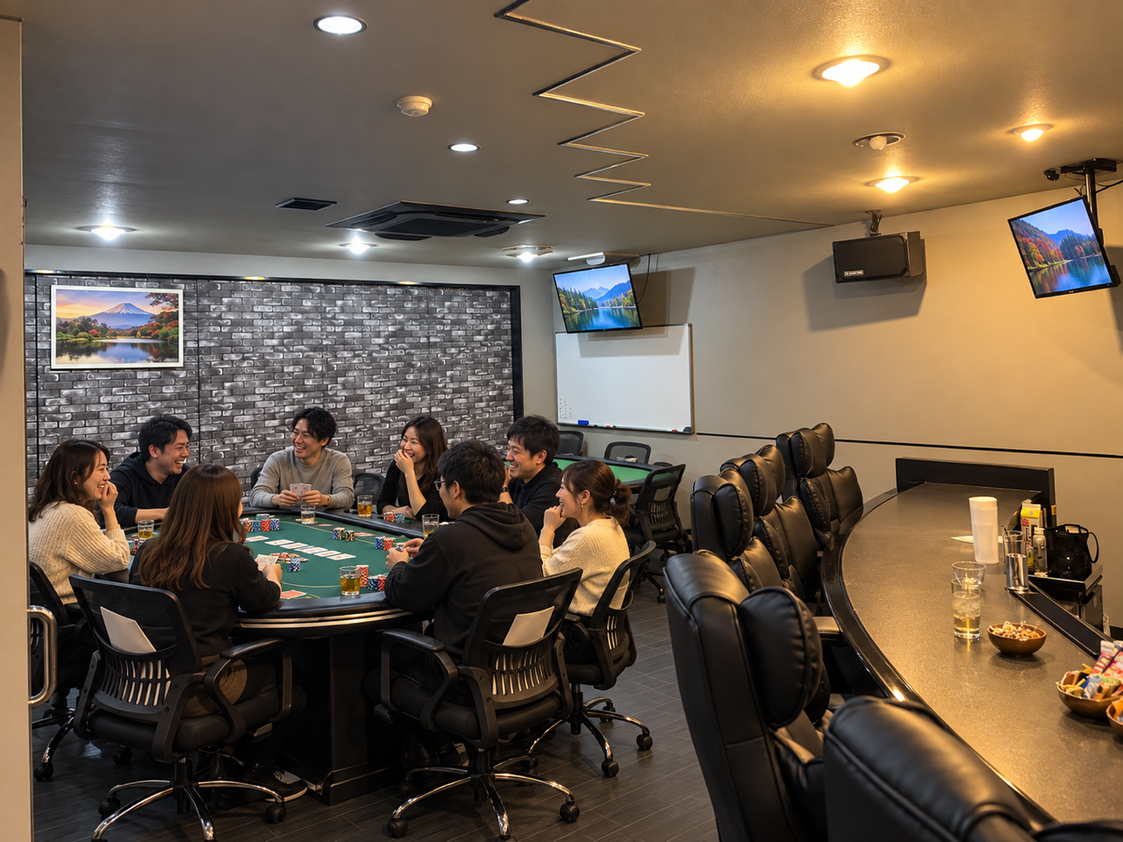
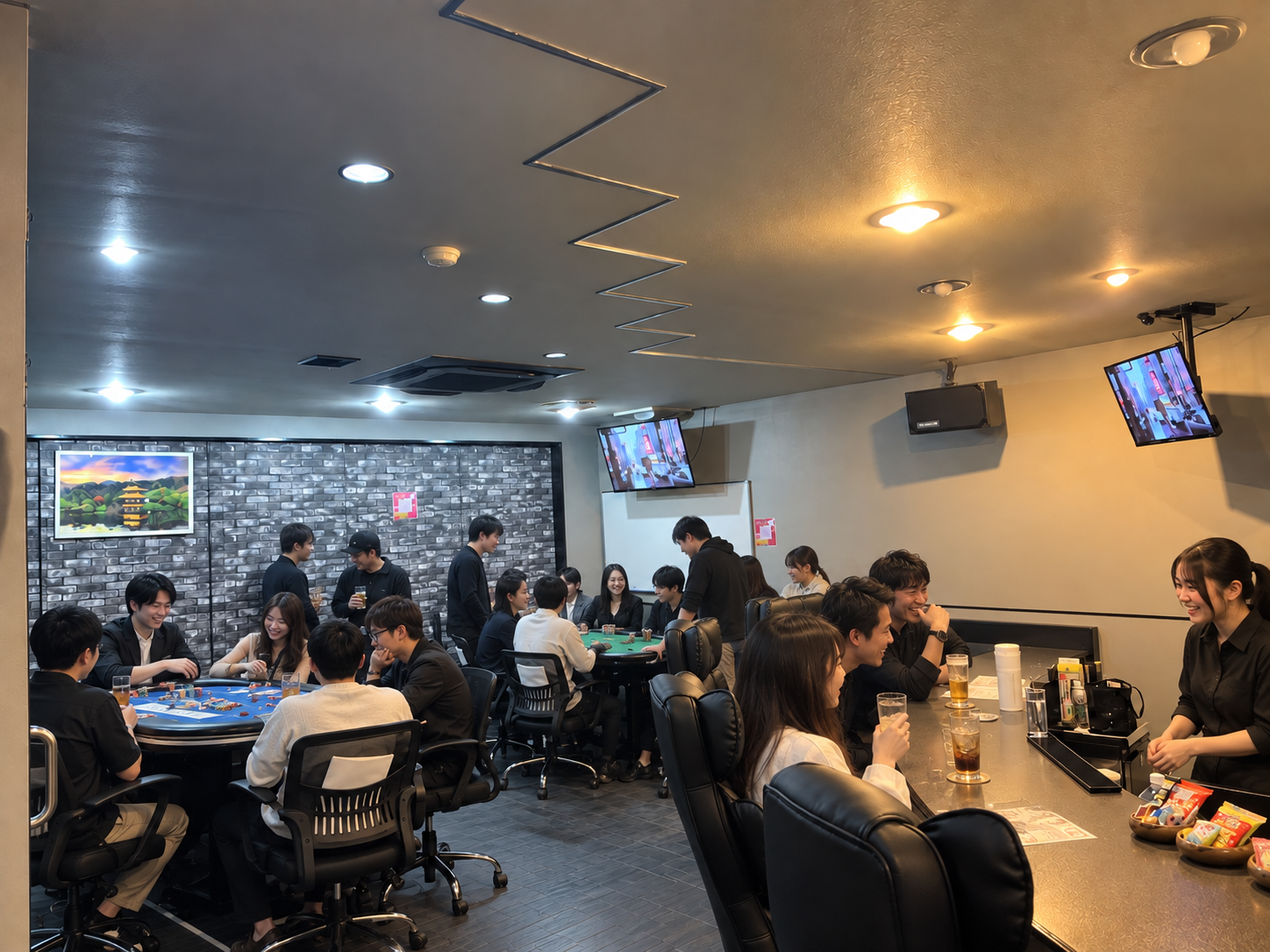
ACE preview: ポーカーテーブル賑わいシーン画像を新しい生成画像に差し替え

diff --git a/ace-preview/access.html b/ace-preview/access.html
@@ -2,7 +2,7 @@
 <html lang="ja"><head><meta charset="UTF-8"><meta name="viewport" content="width=device-width, initial-scale=1"><meta name="theme-color" content="#101313"><meta name="description" content="福岡県大牟田市のアミューズメントポーカー＆バー ACE。初心者講習は無料。ポーカーとお酒、会話を楽しむ大人の遊び場。"><title>店舗情報・アクセス | ACE POKER & BAR</title><link rel="icon" href="assets/ace-sign-restored.png"><link rel="stylesheet" href="style.css"><link rel="stylesheet" href="home-v2.css"><script src="script.js" defer></script></head>
 <body class="site-v2 access-page" id="top"><a class="skip" href="#main">本文へ移動</a>
 <header class="header"><a class="brand" href="index.html" aria-label="ACE ホーム"><img src="assets/ace-sign-restored.png" alt="ACE POKER & BAR" width="132" height="96"></a><nav class="nav" id="navigation" aria-label="メインメニュー"><a href="about.html">ACEについて</a><a href="beginner.html">はじめての方へ</a><a href="system.html">料金・システム</a><a href="access.html" aria-current="page">店舗情報</a><a href="blog.html">ブログ</a><a href="recruit.html">採用情報</a></nav><a class="header-cta" href="beginner.html"><span class="cta-label">はじめの一歩を、ACEで。</span><b>初心者講習 無料</b><span aria-hidden="true">↗</span></a><button class="menu-toggle" aria-controls="navigation" aria-expanded="false" aria-label="メニューを開く"><span></span><span></span></button></header>
-<main id="main"><div class="page-head section page-head--access"><nav class="breadcrumbs" aria-label="パンくず"><a href="index.html">HOME</a><span aria-hidden="true">/</span><span>店舗情報・アクセス</span></nav><p class="eyebrow">INFORMATION & ACCESS</p><h1>店舗情報・アクセス</h1><p class="page-lead">大牟田・大正町。光るACEの看板が目印です。</p></div><section class="section access-carousel" id="gallery" aria-label="店内ギャラリー"><div class="section-marker"><span>01 / INSIDE ACE</span><span class="suit" aria-hidden="true">♠</span></div><div class="carousel" data-carousel><div class="carousel-track" data-carousel-track><figure class="carousel-slide" data-carousel-slide><img src="assets/poker-room-v2.png" alt="ACEの店内。ポーカーテーブルとバーカウンター" width="1448" height="1086" loading="lazy"><figcaption>POKER SPACE / ポーカーテーブル<br>会話をしながら、じっくり一手を。</figcaption></figure><figure class="carousel-slide" data-carousel-slide><img src="assets/bar-room-v2.png" alt="ACEのバーカウンター" width="1448" height="1086" loading="lazy"><figcaption>BAR COUNTER / バーカウンター<br>ゲームの合間の、ひと休みに。</figcaption></figure><figure class="carousel-slide" data-carousel-slide><img src="assets/composite-poker-room.png" alt="ACEの店内でポーカーを楽しむお客様の様子" width="1280" height="960" loading="lazy"><figcaption>GAME TABLE / テーブルの様子<br>会話を楽しみながら、勝負の行方を。</figcaption></figure></div><button class="carousel-arrow prev" type="button" data-carousel-prev aria-label="前の写真へ"><span aria-hidden="true">‹</span></button><button class="carousel-arrow next" type="button" data-carousel-next aria-label="次の写真へ"><span aria-hidden="true">›</span></button><div class="carousel-dots" role="tablist" aria-label="写真を選択" data-carousel-dots></div></div></section><section class="section access-map" aria-label="地図"><div class="section-marker"><span>02 / MAP</span><span class="suit" aria-hidden="true">♦</span></div><div class="access-map-inner"><div class="visit-map"><iframe src="https://www.google.com/maps?q=福岡県大牟田市大正町1-7-17+サンジョービル2F&output=embed" title="ACE POKER & BAR 地図" loading="lazy" referrerpolicy="no-referrer-when-downgrade"></iframe></div><a class="visit-map-link" href="https://maps.google.com/?cid=10475956195316483846" target="_blank" rel="noopener noreferrer">Googleマップで見る <span aria-hidden="true">↗</span></a></div></section><section class="access section" id="access"><div class="section-marker"><span>03 / FIND US</span><span class="suit" aria-hidden="true">♣</span></div><div class="access-grid"><div class="access-copy"><p class="eyebrow">今夜、ACEで。</p><h2>SEE YOU<br><span class="outline">AT THE TABLE.</span></h2><h3>ACE <span>POKER & BAR</span></h3><dl class="access-detail-list"><div><dt>住所</dt><dd>福岡県大牟田市大正町1-7-17<br>サンジョービル 2F</dd></div><div><dt>電話</dt><dd><a href="tel:08039537926">080-3953-7926</a></dd></div><div><dt>入場料</dt><dd>¥3,000（ワンドリンク付・無制限）</dd></div><div><dt>初来店特典</dt><dd>チップ1万点プレゼント</dd></div><div><dt>お飲み物のみ</dt><dd>Charge ¥1,000（ワンドリンク付）</dd></div><div><dt>Instagram</dt><dd><a href="https://www.instagram.com/_bar.ace_" target="_blank" rel="noopener noreferrer">@_bar.ace_ <span aria-hidden="true">↗</span></a></dd></div></dl><a class="button" href="https://www.google.com/maps/search/?api=1&query=福岡県大牟田市大正町1-7-17+Poker+Bar+ACE" target="_blank" rel="noopener noreferrer">Google マップで見る <span aria-hidden="true">↗</span></a><a class="access-tel" href="tel:08039537926"><span class="tel-suit" aria-hidden="true">☎</span><div><span>お電話でのお問い合わせ・ご予約</span><b>080-3953-7926</b></div></a><div class="access-features"><article><span class="f-suit" aria-hidden="true">♠</span><h4>初心者講習 無料</h4><p>ルールを知らなくても、スタッフが基本から丁寧にご案内します。</p></article><article><span class="f-suit" aria-hidden="true">♥</span><h4>賭けないポーカー</h4><p>アミューズメントポーカーだから、はじめてでも安心して楽しめます。</p></article><article><span class="f-suit" aria-hidden="true">♦</span><h4>おひとり様も歓迎</h4><p>カウンター越しの会話も、ACEの楽しみ方のひとつです。</p></article></div></div><figure class="entrance-photo"><img src="assets/entrance.png" alt="ACEの入口を案内する、レンガ壁に掲げられた光る看板" width="402" height="289" loading="lazy"><figcaption>LOOK FOR THIS SIGN.</figcaption></figure></div></section><section class="section access-voice" aria-label="お客様の声"><div class="section-marker"><span>04 / VOICE</span><span class="suit" aria-hidden="true">♥</span></div><div class="voice-head"><p class="eyebrow">GOOGLEの口コミより</p><h2>お客様の声。</h2></div><div class="voice-grid">
+<main id="main"><div class="page-head section page-head--access"><nav class="breadcrumbs" aria-label="パンくず"><a href="index.html">HOME</a><span aria-hidden="true">/</span><span>店舗情報・アクセス</span></nav><p class="eyebrow">INFORMATION & ACCESS</p><h1>店舗情報・アクセス</h1><p class="page-lead">大牟田・大正町。光るACEの看板が目印です。</p></div><section class="section access-carousel" id="gallery" aria-label="店内ギャラリー"><div class="section-marker"><span>01 / INSIDE ACE</span><span class="suit" aria-hidden="true">♠</span></div><div class="carousel" data-carousel><div class="carousel-track" data-carousel-track><figure class="carousel-slide" data-carousel-slide><img src="assets/poker-room-v2.png" alt="ACEの店内。ポーカーテーブルとバーカウンター" width="1448" height="1086" loading="lazy"><figcaption>POKER SPACE / ポーカーテーブル<br>会話をしながら、じっくり一手を。</figcaption></figure><figure class="carousel-slide" data-carousel-slide><img src="assets/bar-room-v2.png" alt="ACEのバーカウンター" width="1448" height="1086" loading="lazy"><figcaption>BAR COUNTER / バーカウンター<br>ゲームの合間の、ひと休みに。</figcaption></figure><figure class="carousel-slide" data-carousel-slide><img src="assets/composite-poker-room.png" alt="ACEの店内でポーカーを楽しむお客様の様子" width="1448" height="1086" loading="lazy"><figcaption>GAME TABLE / テーブルの様子<br>会話を楽しみながら、勝負の行方を。</figcaption></figure></div><button class="carousel-arrow prev" type="button" data-carousel-prev aria-label="前の写真へ"><span aria-hidden="true">‹</span></button><button class="carousel-arrow next" type="button" data-carousel-next aria-label="次の写真へ"><span aria-hidden="true">›</span></button><div class="carousel-dots" role="tablist" aria-label="写真を選択" data-carousel-dots></div></div></section><section class="section access-map" aria-label="地図"><div class="section-marker"><span>02 / MAP</span><span class="suit" aria-hidden="true">♦</span></div><div class="access-map-inner"><div class="visit-map"><iframe src="https://www.google.com/maps?q=福岡県大牟田市大正町1-7-17+サンジョービル2F&output=embed" title="ACE POKER & BAR 地図" loading="lazy" referrerpolicy="no-referrer-when-downgrade"></iframe></div><a class="visit-map-link" href="https://maps.google.com/?cid=10475956195316483846" target="_blank" rel="noopener noreferrer">Googleマップで見る <span aria-hidden="true">↗</span></a></div></section><section class="access section" id="access"><div class="section-marker"><span>03 / FIND US</span><span class="suit" aria-hidden="true">♣</span></div><div class="access-grid"><div class="access-copy"><p class="eyebrow">今夜、ACEで。</p><h2>SEE YOU<br><span class="outline">AT THE TABLE.</span></h2><h3>ACE <span>POKER & BAR</span></h3><dl class="access-detail-list"><div><dt>住所</dt><dd>福岡県大牟田市大正町1-7-17<br>サンジョービル 2F</dd></div><div><dt>電話</dt><dd><a href="tel:08039537926">080-3953-7926</a></dd></div><div><dt>入場料</dt><dd>¥3,000（ワンドリンク付・無制限）</dd></div><div><dt>初来店特典</dt><dd>チップ1万点プレゼント</dd></div><div><dt>お飲み物のみ</dt><dd>Charge ¥1,000（ワンドリンク付）</dd></div><div><dt>Instagram</dt><dd><a href="https://www.instagram.com/_bar.ace_" target="_blank" rel="noopener noreferrer">@_bar.ace_ <span aria-hidden="true">↗</span></a></dd></div></dl><a class="button" href="https://www.google.com/maps/search/?api=1&query=福岡県大牟田市大正町1-7-17+Poker+Bar+ACE" target="_blank" rel="noopener noreferrer">Google マップで見る <span aria-hidden="true">↗</span></a><a class="access-tel" href="tel:08039537926"><span class="tel-suit" aria-hidden="true">☎</span><div><span>お電話でのお問い合わせ・ご予約</span><b>080-3953-7926</b></div></a><div class="access-features"><article><span class="f-suit" aria-hidden="true">♠</span><h4>初心者講習 無料</h4><p>ルールを知らなくても、スタッフが基本から丁寧にご案内します。</p></article><article><span class="f-suit" aria-hidden="true">♥</span><h4>賭けないポーカー</h4><p>アミューズメントポーカーだから、はじめてでも安心して楽しめます。</p></article><article><span class="f-suit" aria-hidden="true">♦</span><h4>おひとり様も歓迎</h4><p>カウンター越しの会話も、ACEの楽しみ方のひとつです。</p></article></div></div><figure class="entrance-photo"><img src="assets/entrance.png" alt="ACEの入口を案内する、レンガ壁に掲げられた光る看板" width="402" height="289" loading="lazy"><figcaption>LOOK FOR THIS SIGN.</figcaption></figure></div></section><section class="section access-voice" aria-label="お客様の声"><div class="section-marker"><span>04 / VOICE</span><span class="suit" aria-hidden="true">♥</span></div><div class="voice-head"><p class="eyebrow">GOOGLEの口コミより</p><h2>お客様の声。</h2></div><div class="voice-grid">
 
 <article class="voice-card"><div class="voice-avatar-row"><img class="voice-avatar" src="assets/voice-avatar-01.png" alt="お客様アイコン（イラスト）" width="52" height="52" loading="lazy"><div class="voice-card-top"><span class="voice-stars" aria-hidden="true">★★★★★</span><span class="voice-meta">吉田郁人 様・2週間前</span></div></div><p class="voice-body">「初心者でも優しく教えてくれます！金額もサービスも全て良心的！いいお店です！」</p><dl class="voice-breakdown"><div><dt>食事</dt><dd>5/5</dd></div><div><dt>サービス</dt><dd>5/5</dd></div><div><dt>雰囲気</dt><dd>5/5</dd></div></dl><p class="voice-source">出典：Googleマップの口コミより</p></article>
 

diff --git a/ace-preview/about.html b/ace-preview/about.html
@@ -3,7 +3,7 @@
 <body class="site-v2 about-page" id="top"><a class="skip" href="#main">本文へ移動</a>
 <header class="header"><a class="brand" href="index.html" aria-label="ACE ホーム"><img src="assets/ace-sign-restored.png" alt="ACE POKER & BAR" width="132" height="96"></a><nav class="nav" id="navigation" aria-label="メインメニュー"><a href="about.html" aria-current="page">ACEについて</a><a href="beginner.html">はじめての方へ</a><a href="system.html">料金・システム</a><a href="access.html">店舗情報</a><a href="blog.html">ブログ</a><a href="recruit.html">採用情報</a></nav><a class="header-cta" href="beginner.html"><span class="cta-label">はじめの一歩を、ACEで。</span><b>初心者講習 無料</b><span aria-hidden="true">↗</span></a><button class="menu-toggle" aria-controls="navigation" aria-expanded="false" aria-label="メニューを開く"><span></span><span></span></button></header>
 <main id="main"><div class="page-head section page-head--about"><nav class="breadcrumbs" aria-label="パンくず"><a href="index.html">HOME</a><span aria-hidden="true">/</span><span>ACEについて</span></nav><p class="eyebrow">ABOUT ACE</p><h1>ACEについて</h1><p class="page-lead">ポーカーとお酒、人がつながる大人の遊び場。</p></div>
-<section class="about-story section"><div class="story-copy"><p class="eyebrow">PLAY FOR FUN.</p><h2>真剣な一手も、<br>思わずこぼれる笑顔も。</h2><p>ポーカーと聞くと、静かにカードを見つめる姿を思い浮かべるかもしれません。<br>ACEで楽しんでほしいのは、カードを囲みながら交わす会話と、賑やかな時間です。</p><p>お店があるのは、福岡県大牟田市。<br>お近くの方も、荒尾から足を運んでくださる方も。<br>気軽にポーカーに触れられる場所として、お待ちしています。</p></div><div class="scene-rows about-points"><article class="scene-row"><div class="scene-row-media"><img class="scene-row-media-photo" src="assets/beginner-lesson.png" alt="複数人でテーブルを囲み初心者講習を受けているイメージ" width="1672" height="941" loading="lazy"></div><div class="scene-row-body"><span class="scene-num">01</span><h3>はじめてに、やさしく。</h3><p>初心者講習はいつでも無料。ポーカーのルールを知らないところからでも、基本から一つずつご案内するので安心してご参加いただけます。大牟田・荒尾エリアでアミューズメントポーカーを体験できるお店はまだ多くありません。「一度ちゃんと教わってから始めたい」という方こそ、ぜひ最初の一歩をACEで。</p></div></article><article class="scene-row scene-row--reverse"><div class="scene-row-media"><img class="scene-row-media-photo" src="assets/ace-bar-drink.png" alt="バーカウンターで提供されるドリンクのイメージ" width="1448" height="1086" loading="lazy"></div><div class="scene-row-body"><span class="scene-num">02</span><h3>会話も、楽しもう。</h3><p>ポーカーと聞くと、黙ってカードを見つめる静かな時間を思い浮かべるかもしれません。ACEで大切にしているのは、テーブルを囲みながら生まれる会話と、勝ち負けに一喜一憂する声です。ゲームの合間はバーカウンターでグラスを傾け、隣の人と一杯どうぞ。一人でふらっと立ち寄っても、自然と会話が生まれる空気があります。</p></div></article><article class="scene-row"><div class="scene-row-media"><img class="scene-row-media-photo" src="assets/composite-poker-room.png" alt="ポーカーテーブルを囲んで会話を楽しむ二人のイメージ" width="1280" height="960" loading="lazy"></div><div class="scene-row-body"><span class="scene-num">03</span><h3>賭けずに、夢中に。</h3><p>ACEはお金を賭けないアミューズメントポーカーのお店です。ギャンブルではなく、ゲームそのものを楽しむ場所として健全に運営しています。「なんとなく怪しそう」というイメージを持たれることもありますが、実際に足を運んでいただければ、明るく開かれた雰囲気を感じていただけるはずです。安心してカードの駆け引きに夢中になってください。</p></div></article></div><div class="about-cta"><a class="button" href="beginner.html">はじめての方へ <span aria-hidden="true">↗</span></a></div></section>
+<section class="about-story section"><div class="story-copy"><p class="eyebrow">PLAY FOR FUN.</p><h2>真剣な一手も、<br>思わずこぼれる笑顔も。</h2><p>ポーカーと聞くと、静かにカードを見つめる姿を思い浮かべるかもしれません。<br>ACEで楽しんでほしいのは、カードを囲みながら交わす会話と、賑やかな時間です。</p><p>お店があるのは、福岡県大牟田市。<br>お近くの方も、荒尾から足を運んでくださる方も。<br>気軽にポーカーに触れられる場所として、お待ちしています。</p></div><div class="scene-rows about-points"><article class="scene-row"><div class="scene-row-media"><img class="scene-row-media-photo" src="assets/beginner-lesson.png" alt="複数人でテーブルを囲み初心者講習を受けているイメージ" width="1672" height="941" loading="lazy"></div><div class="scene-row-body"><span class="scene-num">01</span><h3>はじめてに、やさしく。</h3><p>初心者講習はいつでも無料。ポーカーのルールを知らないところからでも、基本から一つずつご案内するので安心してご参加いただけます。大牟田・荒尾エリアでアミューズメントポーカーを体験できるお店はまだ多くありません。「一度ちゃんと教わってから始めたい」という方こそ、ぜひ最初の一歩をACEで。</p></div></article><article class="scene-row scene-row--reverse"><div class="scene-row-media"><img class="scene-row-media-photo" src="assets/ace-bar-drink.png" alt="バーカウンターで提供されるドリンクのイメージ" width="1448" height="1086" loading="lazy"></div><div class="scene-row-body"><span class="scene-num">02</span><h3>会話も、楽しもう。</h3><p>ポーカーと聞くと、黙ってカードを見つめる静かな時間を思い浮かべるかもしれません。ACEで大切にしているのは、テーブルを囲みながら生まれる会話と、勝ち負けに一喜一憂する声です。ゲームの合間はバーカウンターでグラスを傾け、隣の人と一杯どうぞ。一人でふらっと立ち寄っても、自然と会話が生まれる空気があります。</p></div></article><article class="scene-row"><div class="scene-row-media"><img class="scene-row-media-photo" src="assets/composite-poker-room.png" alt="ポーカーテーブルを囲みワイワイと会話を楽しむお客様の様子" width="1448" height="1086" loading="lazy"></div><div class="scene-row-body"><span class="scene-num">03</span><h3>賭けずに、夢中に。</h3><p>ACEはお金を賭けないアミューズメントポーカーのお店です。ギャンブルではなく、ゲームそのものを楽しむ場所として健全に運営しています。「なんとなく怪しそう」というイメージを持たれることもありますが、実際に足を運んでいただければ、明るく開かれた雰囲気を感じていただけるはずです。安心してカードの駆け引きに夢中になってください。</p></div></article></div><div class="about-cta"><a class="button" href="beginner.html">はじめての方へ <span aria-hidden="true">↗</span></a></div></section>
 <section class="section concept-hero" id="concept" style="background-image:url(assets/poker-room-v2.png)" aria-label="ACEの店内、ポーカーテーブルのイメージ"><div class="concept-hero-inner"><p class="eyebrow">OUR CONCEPT</p><h2>遊び心を、<br>大牟田の夜に。</h2><p>「ポーカー」と聞いて、身構える必要はありません。ACEが目指すのは、静かに駆け引きをするだけの場所ではなく、はじめての方も常連さんも、肩の力を抜いて楽しめる場所です。</p><p>賭け事ではなく、アミューズメントとして。スタッフ一同、健全な運営を徹底しながら、大牟田・荒尾エリアに新しい夜の過ごし方をお届けします。</p></div></section>
 <section class="section home-scenes" aria-label="ACEのバーカウンター"><div class="scene-rows"><article class="scene-row"><div class="scene-row-media"><div class="scene-row-media-bg" style="background-image:url(assets/bar-room-v2.png)" aria-hidden="true"></div><img class="scene-row-media-fg" src="assets/bar-room-v2.png" alt="ACEのバーカウンター、落ち着いた照明のイメージ" width="1448" height="1086" loading="lazy"></div><div class="scene-row-body"><span class="scene-num">♠</span><h3>ゲームの合間も、<br>ひと息つける場所に。</h3><p>カードから少し離れて、カウンターでグラスを傾ける時間も。ACEはポーカーだけでなく、お酒と会話を楽しむバーとしての顔も持っています。緊張した一戦のあとは、隣の人と一杯どうぞ。</p><a class="scene-cta" href="access.html#gallery"><span>店内の様子を見る</span><b aria-hidden="true">↗</b></a></div></article></div></section>
 <section class="section"><div class="section-heading"><h2>ACEが、<br>大切にしていること。</h2><p>「あやしくない」お店であるために。</p></div><div class="scene-grid"><article class="scene-card"><span>01</span><h3>見える化する</h3><p>店内の様子は<a href="access.html#gallery">店舗情報</a>でご覧いただけます。どんな場所か、来店前に知っていただけたら。</p></article><article class="scene-card"><span>02</span><h3>ルールを明確に</h3><p>入場料・チップ購入料金は<a href="system.html">料金・システム</a>で公開。お会計に不安を残しません。</p></article><article class="scene-card"><span>03</span><h3>置いてきぼりにしない</h3><p>初心者講習は無料。わからないことがあれば、スタッフがその都度お答えします。</p></article></div></section><section class="section home-final-cta" aria-label="ACEへのご来店案内"><div class="final-cta-photo"><img src="assets/composite-bar-room.png" alt="ACEの店内、バーカウンターのイメージ" width="1280" height="960" loading="lazy"><span class="scene-photo-note">イメージ</span></div><div class="final-cta-copy"><p class="eyebrow">ENTERTAIN YOU, ENTERTAIN ME</p><h2>ACEで、<br>大牟田の夜を。</h2><p>初心者講習は無料。賭けないアミューズメントポーカーだから、はじめてでも安心して楽しめます。<br>グラスを片手に、いい夜をご一緒に。</p><div class="final-cta-buttons"><a class="button" href="beginner.html">はじめての方へ <span aria-hidden="true">↗</span></a><a class="dark-button" href="access.html">アクセスを見る <span aria-hidden="true">↗</span></a><a class="tel-button" href="tel:08039537926"><span aria-hidden="true">☎</span>お電話でのお問い合わせ <b>080-3953-7926</b></a></div></div></section></main>

diff --git a/ace-preview/beginner.html b/ace-preview/beginner.html
@@ -6,7 +6,7 @@
 <section class="first section" id="first">
 <div class="section-marker"><span>02 / YOUR FIRST GAME</span><span class="suit" aria-hidden="true">♥</span></div>
 <div class="first-top"><div><p class="eyebrow">知識ゼロから、ようこそ。</p><h2>最初の一手、<br>一緒にやろう。</h2><p>ポーカーがはじめての方には、<br>スタッフが基本のルールからご案内します。<br>わからないことは、気軽に聞いてください。</p></div><div class="free-sign"><span>FOR BEGINNERS</span><strong>初心者講習</strong><div>FREE<span>無料</span></div><p>入場料・ゲーム料金は別途かかります。</p></div></div>
-<div class="beginner-flow"><article class="beginner-flow-card"><div class="beginner-flow-num">01</div><div class="beginner-flow-media"><img src="assets/entrance.png" alt="ACEの入口を案内する、レンガ壁に掲げられた光る看板" width="402" height="289" loading="lazy"></div><div class="beginner-flow-body"><h3>まずは「はじめてです」。</h3><p>スタッフにひと声。それだけでOK。<br>緊張せず、気軽にお越しください。<br>おひとりでも、複数人でも大歓迎です。</p><a class="beginner-flow-cta" href="access.html"><span>店舗情報を見る</span><b aria-hidden="true">↗</b></a></div></article><article class="beginner-flow-card"><div class="beginner-flow-num">02</div><div class="beginner-flow-media"><img src="assets/beginner-lesson.png" alt="複数人でポーカーテーブルを囲み初心者講習を受けている様子" width="1672" height="941" loading="lazy"></div><div class="beginner-flow-body"><h3>ルールから、一緒に。</h3><p>カードの役やゲームの流れを、<br>無料の初心者講習で覚えましょう。<br>わからないことは、いつでも気軽に聞いてください。</p><a class="beginner-flow-cta" href="#qa"><span>よくある不安を見る</span><b aria-hidden="true">↗</b></a></div></article><article class="beginner-flow-card"><div class="beginner-flow-num">03</div><div class="beginner-flow-media"><img src="assets/composite-poker-room.png" alt="ポーカーテーブルを囲んで会話を楽しむ様子" width="1280" height="960" loading="lazy"></div><div class="beginner-flow-body"><h3>テーブルで、楽しもう。</h3><p>会話を交わしながら、いざ一手。<br>自分のペースで、ゲームを楽しんでください。</p><a class="beginner-flow-cta" href="system.html"><span>料金・システムを見る</span><b aria-hidden="true">↗</b></a></div></article></div>
+<div class="beginner-flow"><article class="beginner-flow-card"><div class="beginner-flow-num">01</div><div class="beginner-flow-media"><img src="assets/entrance.png" alt="ACEの入口を案内する、レンガ壁に掲げられた光る看板" width="402" height="289" loading="lazy"></div><div class="beginner-flow-body"><h3>まずは「はじめてです」。</h3><p>スタッフにひと声。それだけでOK。<br>緊張せず、気軽にお越しください。<br>おひとりでも、複数人でも大歓迎です。</p><a class="beginner-flow-cta" href="access.html"><span>店舗情報を見る</span><b aria-hidden="true">↗</b></a></div></article><article class="beginner-flow-card"><div class="beginner-flow-num">02</div><div class="beginner-flow-media"><img src="assets/beginner-lesson.png" alt="複数人でポーカーテーブルを囲み初心者講習を受けている様子" width="1672" height="941" loading="lazy"></div><div class="beginner-flow-body"><h3>ルールから、一緒に。</h3><p>カードの役やゲームの流れを、<br>無料の初心者講習で覚えましょう。<br>わからないことは、いつでも気軽に聞いてください。</p><a class="beginner-flow-cta" href="#qa"><span>よくある不安を見る</span><b aria-hidden="true">↗</b></a></div></article><article class="beginner-flow-card"><div class="beginner-flow-num">03</div><div class="beginner-flow-media"><img src="assets/composite-poker-room.png" alt="ポーカーテーブルを囲んで会話を楽しむ様子" width="1448" height="1086" loading="lazy"></div><div class="beginner-flow-body"><h3>テーブルで、楽しもう。</h3><p>会話を交わしながら、いざ一手。<br>自分のペースで、ゲームを楽しんでください。</p><a class="beginner-flow-cta" href="system.html"><span>料金・システムを見る</span><b aria-hidden="true">↗</b></a></div></article></div>
 <div class="amusement-note"><span class="note-title">PLAY FOR FUN.</span><p>ACEは、賭けないアミューズメントポーカーのお店です。<br>ゲームそのものと、人との時間を楽しむ場所として運営しています。</p></div>
 <div class="mini-faq" id="qa"><div class="mini-faq-head"><p class="eyebrow">Q&amp;A</p><h2>よくある不安</h2></div><div class="mini-faq-item"><p class="mini-faq-q"><span class="q">Q.</span>ルールが分からなくても平気？</p><p class="mini-faq-a">大丈夫です。無料の初心者講習で、基本のルールから丁寧にご案内します。</p></div><div class="mini-faq-item"><p class="mini-faq-q"><span class="q">Q.</span>一人でも行けますか？</p><p class="mini-faq-a">もちろんです。女性のお客様お一人でのご来店も多くいらっしゃいます。大歓迎です。スタッフが気さくに声をかけますので、気軽にどうぞ。</p></div><div class="mini-faq-item"><p class="mini-faq-q"><span class="q">Q.</span>女性一人でも浮きませんか？</p><p class="mini-faq-a">ご安心ください。女性のお客様も多くご来店いただいており、おひとりでもグループでも自然に馴染んでいただける雰囲気です。</p></div><div class="mini-faq-item"><p class="mini-faq-q"><span class="q">Q.</span>お酒が飲めなくても大丈夫？</p><p class="mini-faq-a">ソフトドリンクもご用意しています。お酒を飲まない方も心配なくお楽しみいただけます。</p></div></div>
 </section><section class="section next-page"><div><p class="eyebrow">BEFORE YOUR FIRST VISIT</p><h2>料金も、事前にチェック。</h2><p>初心者講習は無料です。入場料とチップ購入料金は別途かかります。</p></div><a class="button" href="system.html">料金・システム <span aria-hidden="true">↗</span></a></section>

diff --git a/ace-preview/recruit.html b/ace-preview/recruit.html
@@ -6,6 +6,6 @@
 <section class="section" id="recruit"><div class="recruit-table" role="table" aria-label="募集要項"><div class="recruit-row" role="row"><span class="recruit-th" role="columnheader">雇用形態</span><span class="recruit-td" role="cell">正社員／アルバイト（応相談・未確定）</span></div><div class="recruit-row" role="row"><span class="recruit-th" role="columnheader">給与</span><span class="recruit-td" role="cell">月給 20万円（想定・固定）</span></div><div class="recruit-row" role="row"><span class="recruit-th" role="columnheader">勤務時間</span><span class="recruit-td" role="cell">夜間中心（詳細は面談にてご相談）</span></div><div class="recruit-row" role="row"><span class="recruit-th" role="columnheader">交通費</span><span class="recruit-td" role="cell">応相談</span></div><div class="recruit-row" role="row"><span class="recruit-th" role="columnheader">駐車場</span><span class="recruit-td" role="cell">あり（駐車場のご用意があります）</span></div><div class="recruit-row" role="row"><span class="recruit-th" role="columnheader">応募方法</span><span class="recruit-td" role="cell">お電話または Instagram DM にてお気軽にご連絡ください</span></div></div>
 <div class="recruit-notice"><span class="point-suit" aria-hidden="true">♠</span><h2>まずはお気軽に<br>お問い合わせください。</h2><p>今すぐ働くことにご興味のある方は、お電話またはInstagramにてお気軽にお問い合わせください。</p><div class="recruit-contact"><a class="button" href="tel:08039537926"><span aria-hidden="true">☎</span> 080-3953-7926</a><a class="dark-button" href="https://www.instagram.com/_bar.ace_" target="_blank" rel="noopener noreferrer">Instagramで問い合わせる <span aria-hidden="true">↗</span></a></div></div></section>
 <section class="section next-page"><div><p class="eyebrow">MORE ABOUT ACE</p><h2>ACEについて、もっと知る。</h2><p>お店の雰囲気やコンセプトは、ACEについてのページでご紹介しています。</p></div><a class="button" href="about.html">ACEについて <span aria-hidden="true">↗</span></a></section>
-<section class="section home-final-cta" aria-label="ACEへのご来店案内"><div class="final-cta-photo"><img src="assets/composite-poker-room.png" alt="ポーカーテーブルを囲んで会話を楽しむ二人のイメージ" width="1280" height="960" loading="lazy"><span class="scene-photo-note">イメージ</span></div><div class="final-cta-copy"><p class="eyebrow">ENTERTAIN YOU, ENTERTAIN ME</p><h2>ACEで、<br>大牟田の夜を。</h2><p>初心者講習は無料。賭けないアミューズメントポーカーだから、はじめてでも安心して楽しめます。<br>グラスを片手に、いい夜をご一緒に。</p><div class="final-cta-buttons"><a class="button" href="beginner.html">はじめての方へ <span aria-hidden="true">↗</span></a><a class="dark-button" href="access.html">アクセスを見る <span aria-hidden="true">↗</span></a><a class="tel-button" href="tel:08039537926"><span aria-hidden="true">☎</span>お電話でのお問い合わせ <b>080-3953-7926</b></a></div></div></section></main>
+<section class="section home-final-cta" aria-label="ACEへのご来店案内"><div class="final-cta-photo"><img src="assets/composite-poker-room.png" alt="ポーカーテーブルを囲みワイワイと会話を楽しむお客様の様子" width="1448" height="1086" loading="lazy"><span class="scene-photo-note">イメージ</span></div><div class="final-cta-copy"><p class="eyebrow">ENTERTAIN YOU, ENTERTAIN ME</p><h2>ACEで、<br>大牟田の夜を。</h2><p>初心者講習は無料。賭けないアミューズメントポーカーだから、はじめてでも安心して楽しめます。<br>グラスを片手に、いい夜をご一緒に。</p><div class="final-cta-buttons"><a class="button" href="beginner.html">はじめての方へ <span aria-hidden="true">↗</span></a><a class="dark-button" href="access.html">アクセスを見る <span aria-hidden="true">↗</span></a><a class="tel-button" href="tel:08039537926"><span aria-hidden="true">☎</span>お電話でのお問い合わせ <b>080-3953-7926</b></a></div></div></section></main>
 <footer class="site-footer"><div class="footer-main"><a class="footer-image" href="index.html"><img src="assets/ace-sign-restored.png" alt="ACE POKER & BAR" width="180" height="132" loading="lazy"></a><div class="footer-address"><p>福岡県大牟田市大正町1-7-17<br>サンジョービル 2F</p><span>AMUSEMENT POKER & BAR / OMUTA</span><a class="footer-tel" href="tel:08039537926"><span aria-hidden="true">☎</span> <b>080-3953-7926</b></a><a class="footer-tel" href="https://www.instagram.com/_bar.ace_" target="_blank" rel="noopener noreferrer"><span aria-hidden="true">◇</span> Instagram <span aria-hidden="true">↗</span></a></div><nav aria-label="フッターメニュー"><a href="about.html">ACEについて</a><a href="beginner.html">はじめての方へ</a><a href="system.html">料金・システム</a><a href="access.html">店舗情報・アクセス</a><a href="blog.html">ブログ</a><a href="faq.html">よくあるご質問</a><a href="recruit.html">採用情報</a></nav></div><div class="footer-bottom"><small>© ACE POKER & BAR</small><span>一部の写真はイメージです。</span><a href="#top">PAGE TOP ↑</a></div></footer>
 </body></html>

diff --git a/ace-preview/blog-02.html b/ace-preview/blog-02.html
@@ -25,7 +25,7 @@
 <a class="related-post" href="blog-01.html"><img src="assets/ace-poker-hero.png" alt="ポーカーを囲んで会話を楽しむ大人たちのイメージ" width="2048" height="1152" loading="lazy"><div><span class="rp-label">RELATED ARTICLE</span><h4>賭けないポーカーって、実際どんな遊び？アミューズメントポーカーのしくみ</h4></div></a>
 </div>
 </div></section>
-<section class="section home-final-cta" aria-label="ご来店のご案内"><div class="final-cta-photo"><img src="assets/composite-poker-room.png" alt="ポーカーテーブルを囲んで会話を楽しむ二人のイメージ" width="1280" height="960" loading="lazy"><span class="scene-photo-note">イメージ</span></div><div class="final-cta-copy"><p class="eyebrow">ENTERTAIN YOU, ENTERTAIN ME</p><h2>ACEで、<br>大牟田の夜を。</h2><p>初心者講習は無料。賭けないアミューズメントポーカーだから、はじめてでも安心して楽しめます。<br>グラスを片手に、いい夜をご一緒に。</p><div class="final-cta-buttons"><a class="button" href="beginner.html">はじめての方へ <span aria-hidden="true">↗</span></a><a class="dark-button" href="access.html">アクセスを見る <span aria-hidden="true">↗</span></a><a class="tel-button" href="tel:08039537926"><span aria-hidden="true">☎</span>お電話でのお問い合わせ <b>080-3953-7926</b></a></div></div></section>
+<section class="section home-final-cta" aria-label="ご来店のご案内"><div class="final-cta-photo"><img src="assets/composite-poker-room.png" alt="ポーカーテーブルを囲みワイワイと会話を楽しむお客様の様子" width="1448" height="1086" loading="lazy"><span class="scene-photo-note">イメージ</span></div><div class="final-cta-copy"><p class="eyebrow">ENTERTAIN YOU, ENTERTAIN ME</p><h2>ACEで、<br>大牟田の夜を。</h2><p>初心者講習は無料。賭けないアミューズメントポーカーだから、はじめてでも安心して楽しめます。<br>グラスを片手に、いい夜をご一緒に。</p><div class="final-cta-buttons"><a class="button" href="beginner.html">はじめての方へ <span aria-hidden="true">↗</span></a><a class="dark-button" href="access.html">アクセスを見る <span aria-hidden="true">↗</span></a><a class="tel-button" href="tel:08039537926"><span aria-hidden="true">☎</span>お電話でのお問い合わせ <b>080-3953-7926</b></a></div></div></section>
 </main>
 <footer class="site-footer"><div class="footer-main"><a class="footer-image" href="index.html"><img src="assets/ace-sign-restored.png" alt="ACE POKER & BAR" width="180" height="132" loading="lazy"></a><div class="footer-address"><p>福岡県大牟田市大正町1-7-17<br>サンジョービル 2F</p><span>AMUSEMENT POKER & BAR / OMUTA</span><a class="footer-tel" href="tel:08039537926"><span aria-hidden="true">☎</span> <b>080-3953-7926</b></a><a class="footer-tel" href="https://www.instagram.com/_bar.ace_" target="_blank" rel="noopener noreferrer"><span aria-hidden="true">◇</span> Instagram <span aria-hidden="true">↗</span></a></div><nav aria-label="フッターメニュー"><a href="about.html">ACEについて</a><a href="beginner.html">はじめての方へ</a><a href="system.html">料金・システム</a><a href="access.html">店舗情報・アクセス</a><a href="blog.html">ブログ</a><a href="faq.html">よくあるご質問</a><a href="recruit.html">採用情報</a></nav></div><div class="footer-bottom"><small>© ACE POKER & BAR</small><span>一部の写真はイメージです。</span><a href="#top">PAGE TOP ↑</a></div></footer>
 </body></html>
